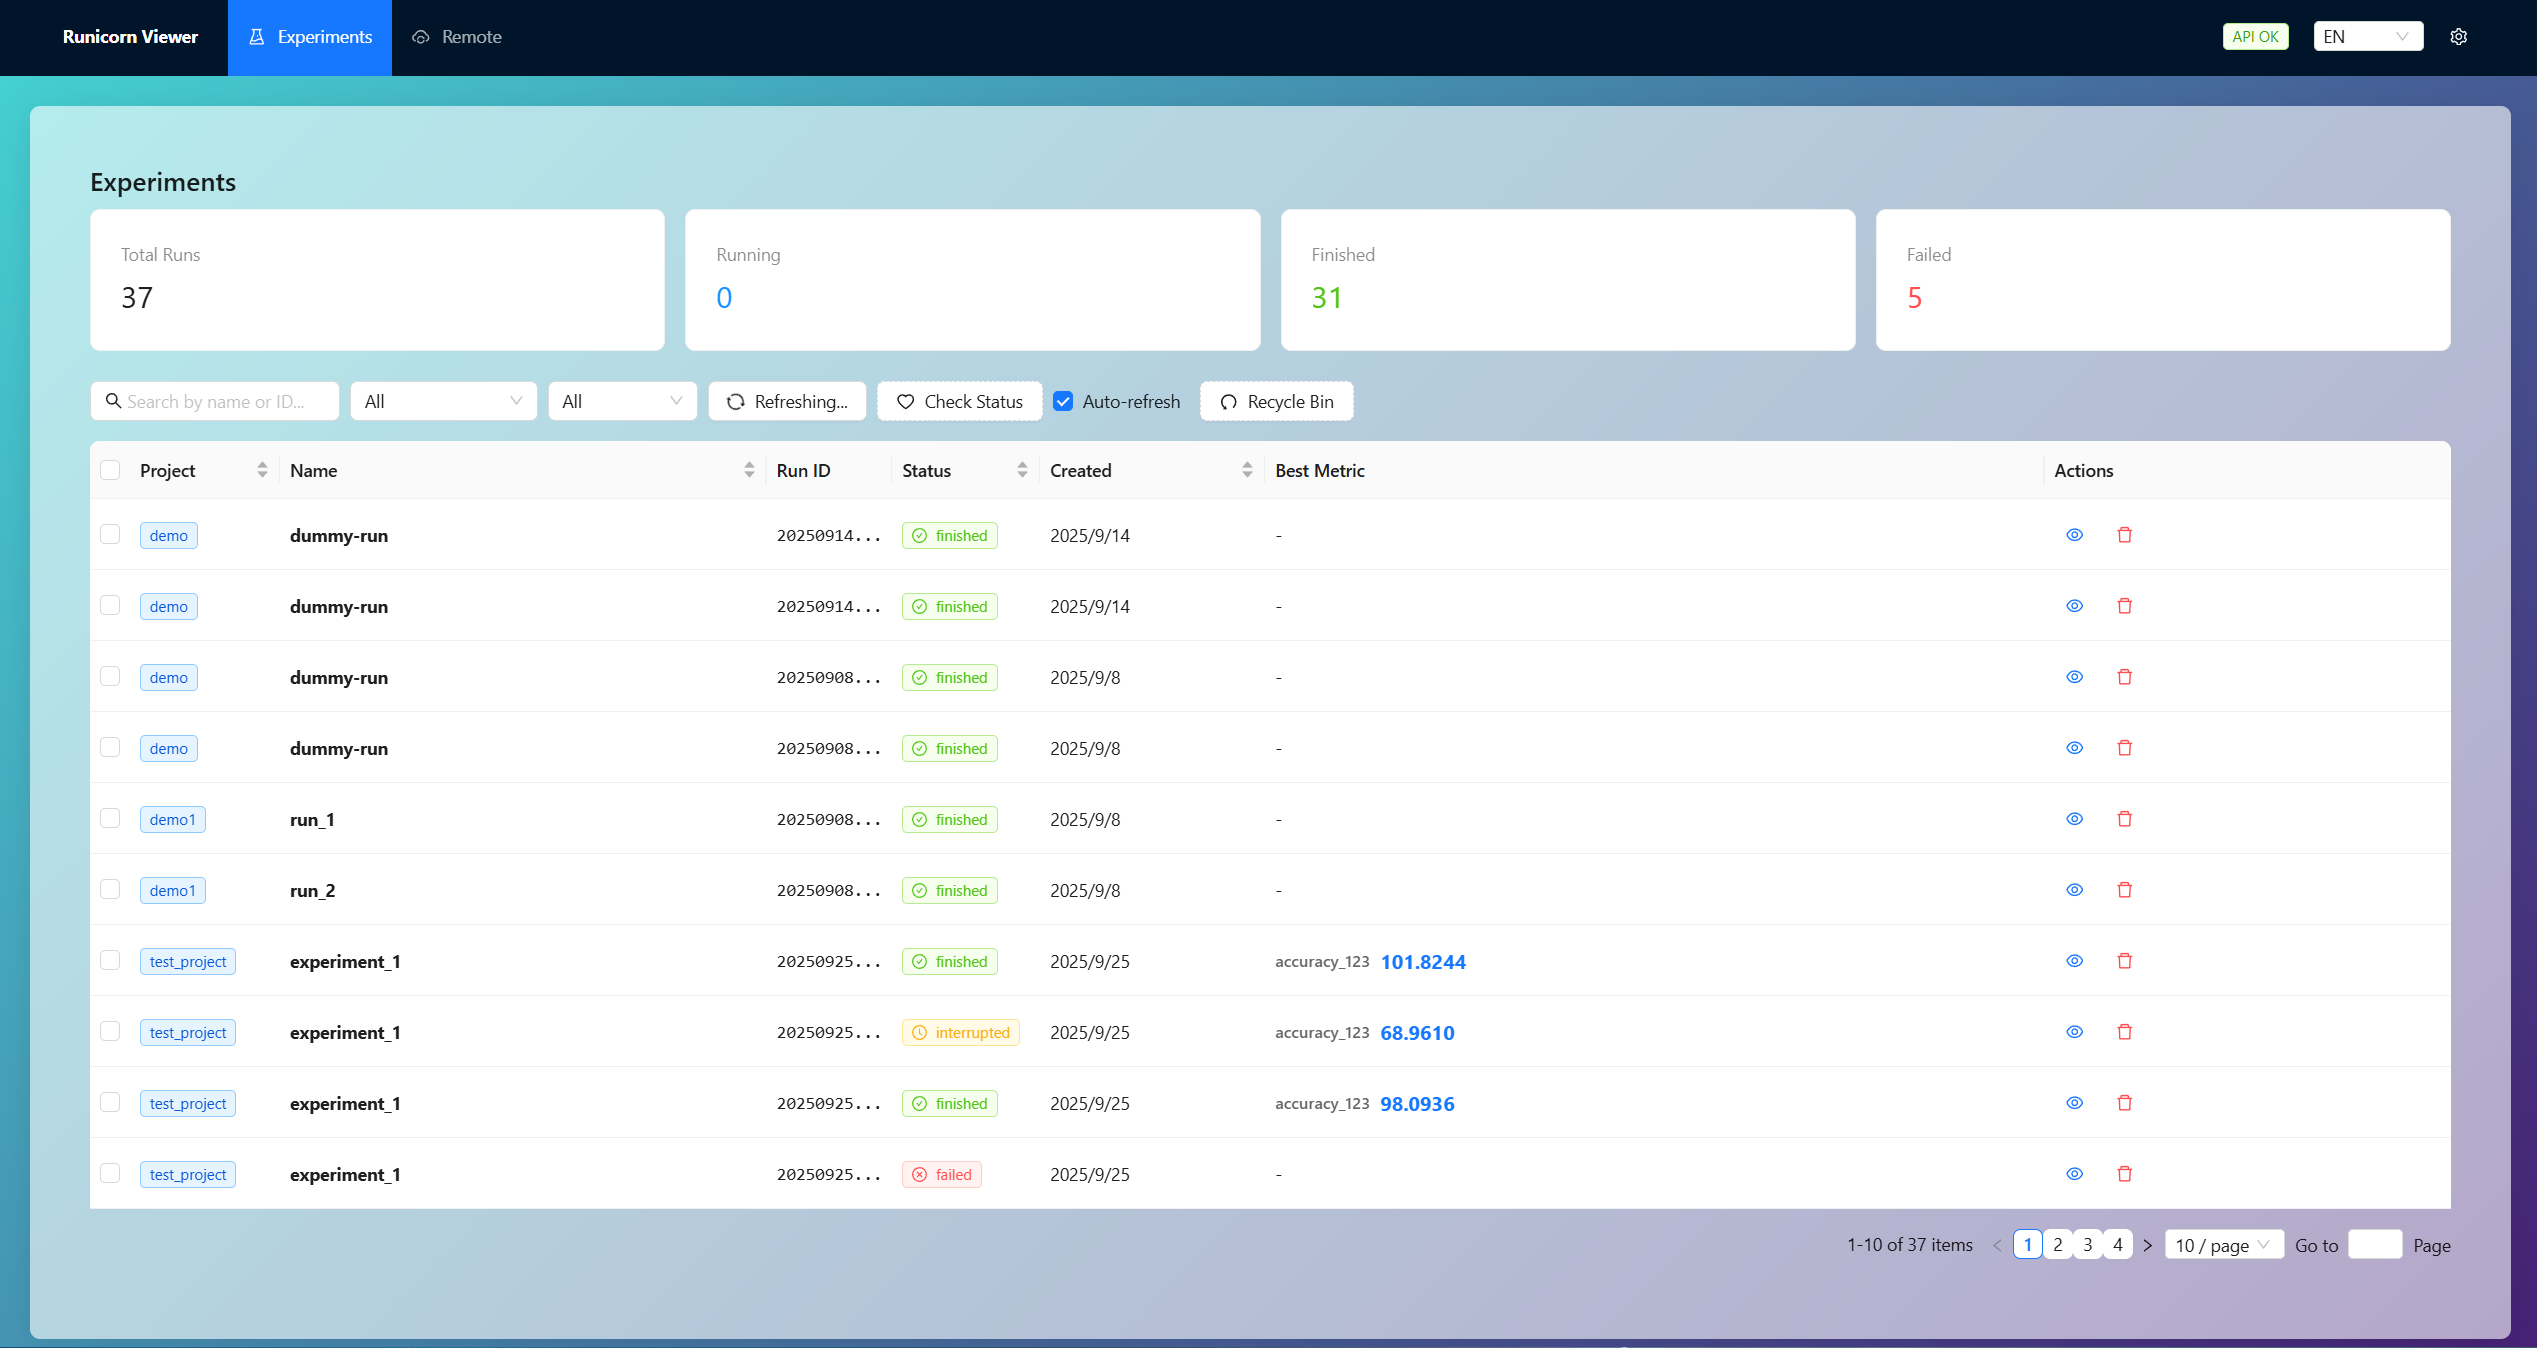
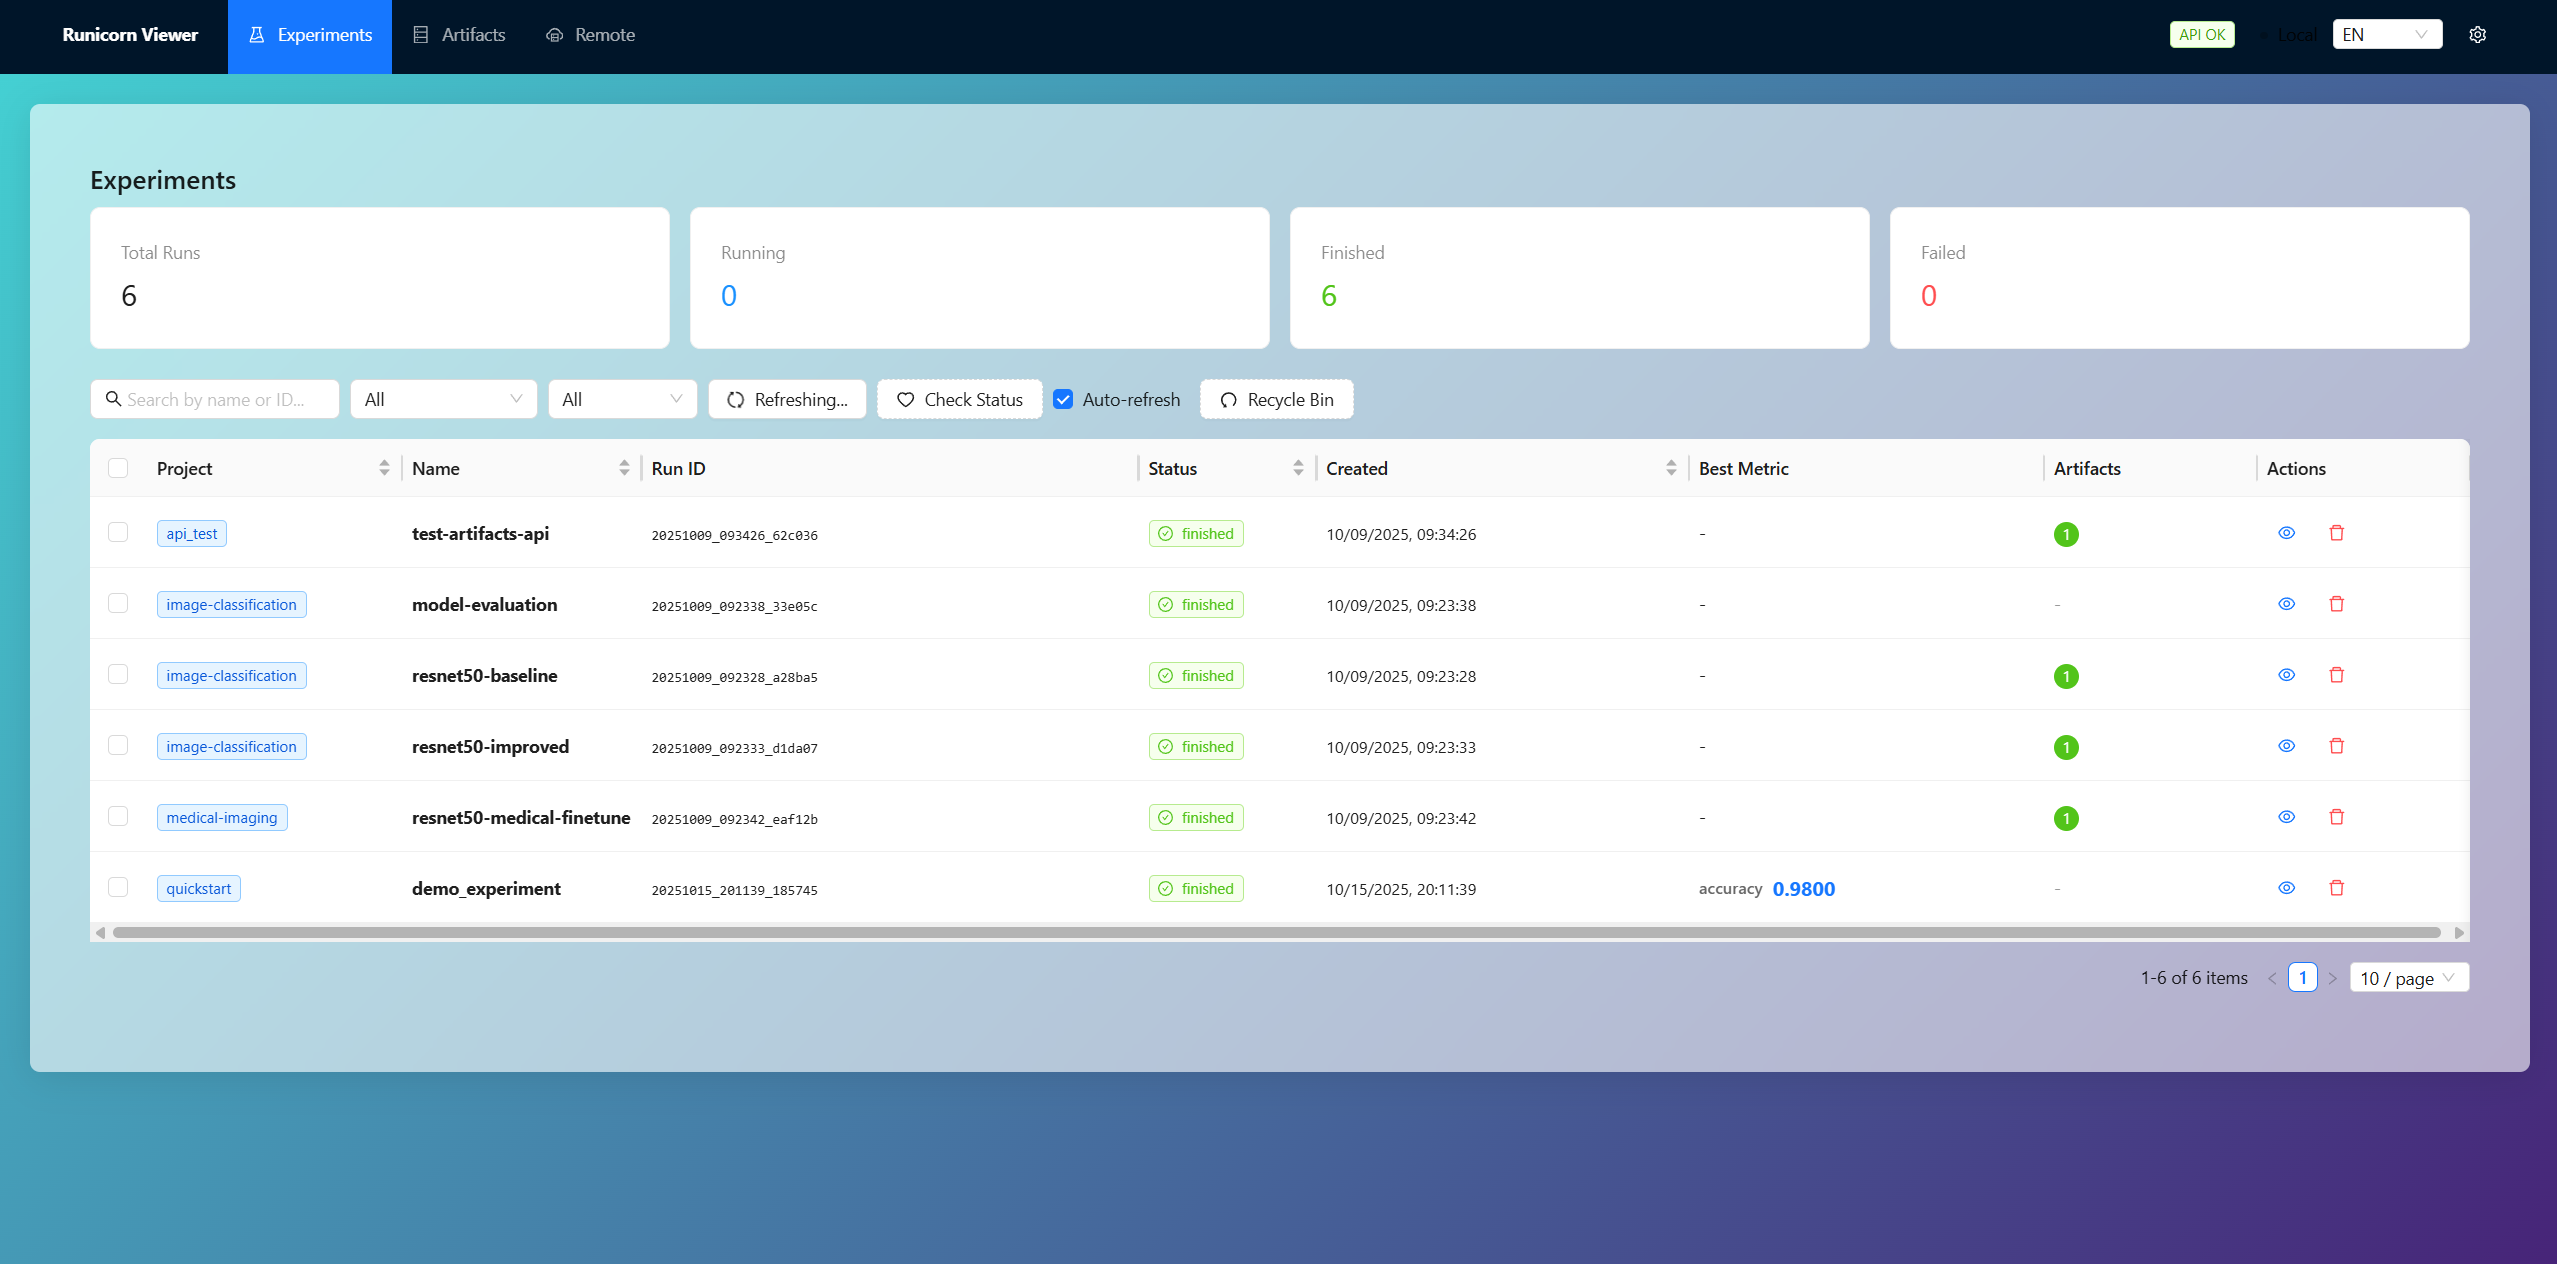
update README picture

diff --git a/README.md b/README.md
@@ -42,16 +42,21 @@ Local, open-source experiment tracking and visualization. 100% offline. Professi
 - **GPU Monitoring**: Real-time GPU telemetry (requires `nvidia-smi`)
 
 
+<table>
+  <tr>
+    <td width="50%"><img src="docs/assets/p1.png" alt="Experiments page" width="100%" /></td>
+    <td width="50%"><img src="docs/assets/p2.png" alt="Experiment detail" width="100%" /></td>
+  </tr>
+  <tr>
+    <td width="50%"><img src="docs/assets/p3.png" alt="Artifacts management" width="100%" /></td>
+    <td width="50%"><img src="docs/assets/p4.png" alt="Remote connection" width="100%" /></td>
+  </tr>
+</table>
+
 <p align="center">
-  <img src="docs/assets/p1.png" alt="Runicorn demo 1" width="98%" />
-  <br/>
-  <img src="docs/assets/p2.png" alt="Runicorn demo 2" width="98%" />
-  <br/>
-  <img src="docs/assets/p3.png" alt="Runicorn demo 3" width="98%" />
-  <br/>
-  <span style="color:#888; font-size: 12px;">UI overview</span>
-  
+  <span style="color:#888; font-size: 12px;">UI Overview</span>
 </p>
+
 
 Features
 --------

diff --git a/README_zh.md b/README_zh.md
@@ -40,15 +40,21 @@
 - **桌面应用**: Windows原生应用，自动后端启动
 - **GPU监控**: 实时GPU遥测（需要`nvidia-smi`）
 
+<table>
+  <tr>
+    <td width="50%"><img src="docs/assets/p1.png" alt="实验列表页面" width="100%" /></td>
+    <td width="50%"><img src="docs/assets/p2.png" alt="实验详情页面" width="100%" /></td>
+  </tr>
+  <tr>
+    <td width="50%"><img src="docs/assets/p3.png" alt="Artifacts管理" width="100%" /></td>
+    <td width="50%"><img src="docs/assets/p4.png" alt="远程连接" width="100%" /></td>
+  </tr>
+</table>
+
 <p align="center">
-  <img src="docs/assets/p1.png" alt="Runicorn demo 1" width="98%" />
-  <br/>
-  <img src="docs/assets/p2.png" alt="Runicorn demo 2" width="98%" />
-  <br/>
-  <img src="docs/assets/p3.png" alt="Runicorn demo 3" width="98%" />
-  <br/>
-  <span style="color:#888; font-size: 12px;">界面</span>
+  <span style="color:#888; font-size: 12px;">界面展示</span>
 </p>
+
 
 
 ## 特性
